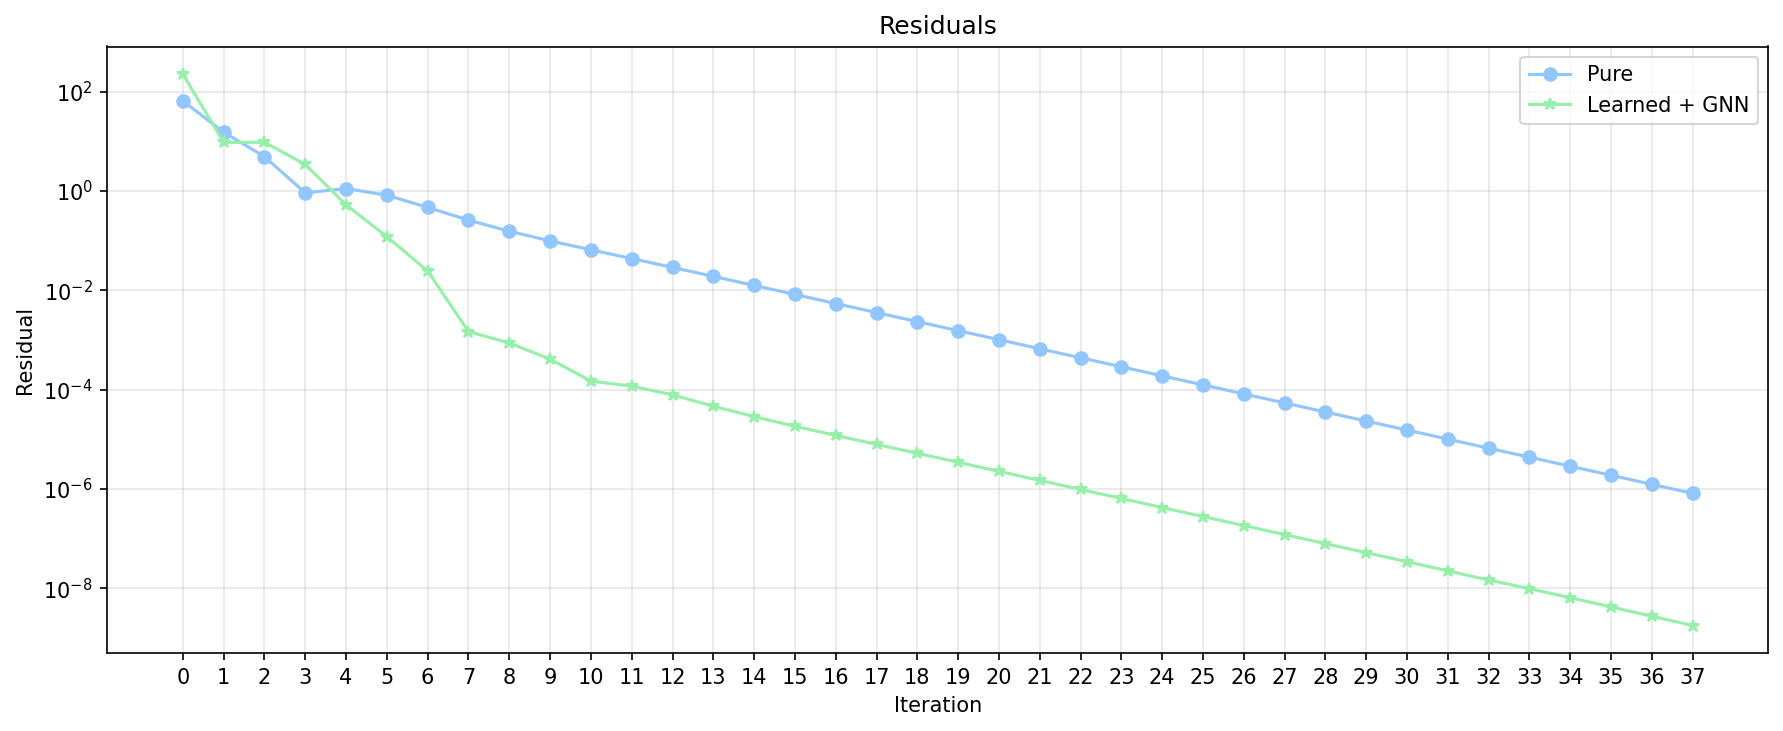
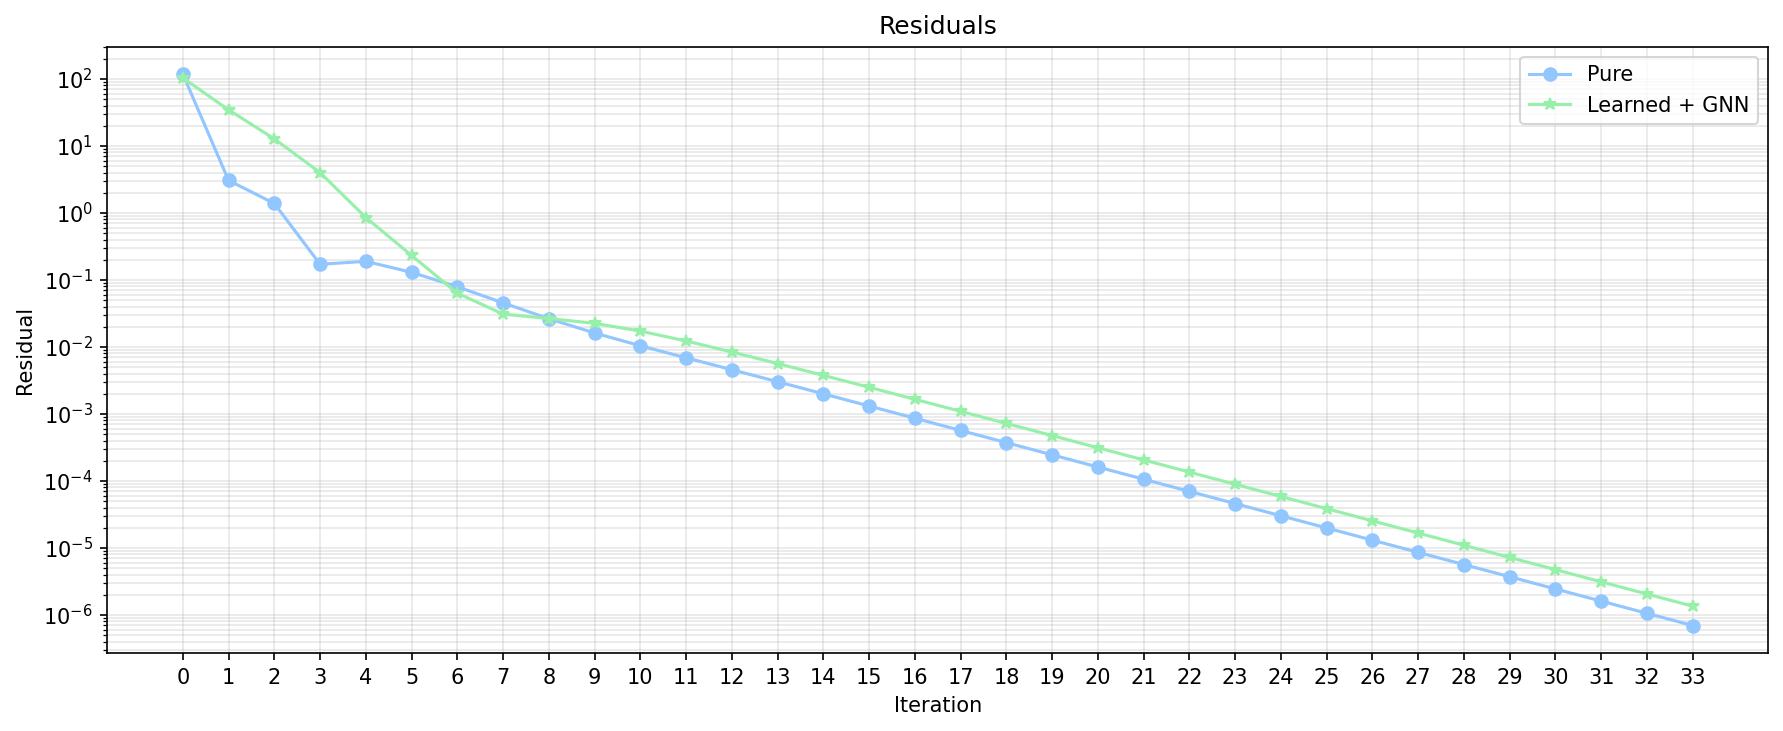
update_x_cvxpy top
understand well and better why learning does not improve, probably to be understood later also if it is scalable

diff --git a/GNN/prosumer.py b/GNN/prosumer.py
@@ -1,7 +1,6 @@
 import copy
 import torch
 import cvxpy as cp
-
 from cvxpylayers.torch import CvxpyLayer
 
 
@@ -382,33 +381,33 @@ class Prosumer:
                 max= self.k[m]
             )
         return self
-    
+
     # ------------------------------------------------------------------
     # ADMM x-update (differentiable, exact via cvxpylayers)
     # ------------------------------------------------------------------
- 
+    
     def _build_cvxpy_layer(self, rho_val: float):
         """
         Build a CvxpyLayer for the ADMM x-update QP.
         Called once and cached — the problem structure is fixed,
         only the parameter values change between calls.
- 
+
         The QP solves:
             min  J_n(D,G,q) + (rho/2) sum_m ||q[m] - target[m]||^2
             s.t. D_min <= D <= D_max
                  G_min <= G <= G_max
                  q[m] <= k[m]  for all m
                  D - G - G_res - sum(q) = 0
- 
+
         Parameters (differentiable):
             target : (k,) — z[m] - u[m] for each neighbor m
- 
+
         The solution x* is differentiable w.r.t. target via implicit
         differentiation of the KKT conditions (handled by cvxpylayers).
         """
         k = len(self.neighbors)
         dim = 2 + k
- 
+
         # Fixed scalar values
         D_min_val   = float(self.D_min.item())
         D_max_val   = float(self.D_max.item())
@@ -421,30 +420,30 @@ class Prosumer:
         D_star_val  = float(self.D_star.item())
         c_vals      = [float(self.c[m].item()) for m in self.neighbors]
         k_caps      = [float(self.k[m].item()) for m in self.neighbors]
- 
+
         # cvxpy variable and parameter
         x = cp.Variable(dim)
         target = cp.Parameter(k)  # z[m] - u[m], differentiable
- 
+
         D = x[0]
         G = x[1]
- 
+
         # Objective: J_n + ADMM penalty
         node_cost  = a_tilde_val * cp.square(D - D_star_val) + \
                      0.5 * a_val * cp.square(G) + b_val * G
         trade_cost = cp.sum([c_vals[i] * x[2 + i] for i in range(k)]) \
                      if k > 0 else 0
         J_n = node_cost + trade_cost
- 
+
         if k > 0:
             penalty = (rho_val / 2.0) * cp.sum(
                 [cp.square(x[2 + i] - target[i]) for i in range(k)]
             )
         else:
             penalty = 0
- 
+
         objective = cp.Minimize(J_n + penalty)
- 
+
         # Constraints
         constraints = []
         constraints += [D >= D_min_val, D <= D_max_val]
@@ -455,45 +454,48 @@ class Prosumer:
             constraints.append(D - G - G_res_val - cp.sum(x[2:]) == 0)
         else:
             constraints.append(D - G == G_res_val)
- 
+
         problem = cp.Problem(objective, constraints)
- 
+
         # Build CvxpyLayer: target is the differentiable parameter
         self._cvxpy_layer = CvxpyLayer(
             problem, parameters=[target], variables=[x]
         )
         self._cvxpy_layer_rho = rho_val
- 
+
     def admm_x_update_diff(self, rho: float) -> "Prosumer":
         """
         ADMM x-update: exact QP solution, differentiable via cvxpylayers.
- 
+
         Solves the same QP as admm_x_update but gradients flow through
         the solution w.r.t. the ADMM target (z[m] - u[m]).
- 
+
         The CvxpyLayer is built once and cached. If rho changes,
         the layer is rebuilt.
         """
         k = len(self.neighbors)
- 
+
         # Build/rebuild layer if needed
         if not hasattr(self, '_cvxpy_layer') or self._cvxpy_layer_rho != rho:
             self._build_cvxpy_layer(rho)
- 
+
         # Construct the differentiable parameter: target[i] = z[m_i] - u[m_i]
         target_vals = torch.stack([
             self.z[m] - self.u[m] for m in self.neighbors
-        ]) if k > 0 else torch.zeros(0, device=self.device)
- 
+        ]).double() if k > 0 else torch.zeros(0, dtype=torch.float64, device=self.device)
+
         # Solve — output is differentiable w.r.t. target_vals
         sol, = self._cvxpy_layer(target_vals, solver_args={'solve_method': 'SCS'})
- 
+
+        # cvxpylayers returns float64, convert back to float32
+        sol = sol.float()
+
         # Unpack solution back into prosumer state
         self.D = sol[0]
         self.G = sol[1]
         for i, m in enumerate(self.neighbors):
             self.q[m] = sol[2 + i]
- 
+
         return self
 
     def admm_z_update(self):

diff --git a/GNN/train.py b/GNN/train.py
@@ -105,15 +105,42 @@ def meta_train(
                 sample_baseline = 0.0
                 for t in range(T):
                     if algorithm == "fb":
+                        net = learned_FB_step(net, model, t, gamma, training=True)
                         x_t  = net_b.flatten()
                         Tx_t = pure_FB_step(net_b, gamma).flatten()
                         sample_baseline += torch.sum((x_t - Tx_t) ** 2).item()
-                        net_b = pure_FB_step(net_b, gamma)
+                        #net_b = pure_FB_step(net_b, gamma)
                     else:  # admm
+                        """
+                        net_b = pure_ADMM_step(net_b, rho)
                         x_t  = net_b.flatten()
                         Tx_t = pure_ADMM_step(net_b, rho).flatten()
                         sample_baseline += torch.sum((x_t - Tx_t) ** 2).item()
+                        #net_b = pure_ADMM_step(net_b, rho)
+                        """
+                        # Save z before step for dual residual
+                        z_prev_b = {
+                            n: {m: net_b.prosumers[n].z[m].clone()
+                                for m in net_b.prosumers[n].neighbors}
+                            for n in range(net_b.N)
+                        }
+ 
+                        # Advance state
                         net_b = pure_ADMM_step(net_b, rho)
+ 
+                        # Primal residual: r = sum (q - z)^2
+                        r_b = sum(
+                            (p.q[m] - p.z[m]) ** 2
+                            for p in net_b.prosumers
+                            for m in p.neighbors
+                        )
+                        # Dual residual: s = rho^2 * sum (z^t - z^{t-1})^2
+                        s_b = rho ** 2 * sum(
+                            (net_b.prosumers[n].z[m] - z_prev_b[n][m]) ** 2
+                            for n in range(net_b.N)
+                            for m in net_b.prosumers[n].neighbors
+                        )
+                        sample_baseline += float(r_b + s_b)
  
                 baseline_total += sample_baseline
                 n_baseline += 1
@@ -157,7 +184,7 @@ def meta_train(
                         sample_loss = sample_loss + torch.sum((x_t - Tx_t) ** 2)
 
                     else:  # admm
-                        """
+                        
                         # Save z before the step for dual residual computation
                         z_prev = {
                             n: {m: net.prosumers[n].z[m].clone().detach()
@@ -195,7 +222,7 @@ def meta_train(
                         x_t  = net.flatten()
                         Tx_t = pure_ADMM_step(net, rho).flatten().detach()
                         sample_loss = sample_loss + torch.sum((x_t - Tx_t) ** 2)
-                        
+                        """
 
                 batch_loss = batch_loss + sample_loss
 

diff --git a/GNN/main.py b/GNN/main.py
@@ -62,15 +62,15 @@ def main(N_choice: int = 3, N_train: int = 3, load: bool = True,
     # ------------------------------------------------------------------
     # Hyperparameters
     # ------------------------------------------------------------------
-    num_samples = 100
+    num_samples = 50
     batch_size  = 1
-    T           = 15        # unrolling steps
-    epochs      = 150
-    lr          = 1e-3
+    T           = 30        # unrolling steps
+    epochs      = 20
+    lr          = 1e-4
     alpha       = 0.95      # kept for API compatibility
     d_h         = 12        # GNN hidden dimension
-    rho_gnn     = 0.3     # GNN summability decay (rho in GNNUpdate)
-    rho_admm    = 5     # ADMM penalty parameter
+    rho_gnn     = 0.5     # GNN summability decay (rho in GNNUpdate)
+    rho_admm    = 3     # ADMM penalty parameter
 
     # Build network for training (needed before model construction)
     net_train, gamma, max_iter, tol = init_fn[N_train](device=device)
@@ -254,15 +254,15 @@ if __name__ == "__main__":
     parser = argparse.ArgumentParser(description="L2Play — GNN accelerated FB/ADMM")
 
     parser.add_argument(
-        "--N", type=int, default=10, choices=[3, 10, 30],
+        "--N", type=int, default=3, choices=[3, 10, 30],
         help="Network size for inference (default: 3)"
     )
     parser.add_argument(
-        "--N_train", type=int, default=10, choices=[3, 10, 30],
+        "--N_train", type=int, default=3, choices=[3, 10, 30],
         help="Network size for training (default: 3)"
     )
     parser.add_argument(
-        "--load", action="store_true", default=True,
+        "--load", action="store_true", default=False,
         help="Load pre-trained model instead of training"
     )
     parser.add_argument(

diff --git a/GNN/inference.py b/GNN/inference.py
@@ -111,7 +111,7 @@ def run_comparison(
                 ).item()
 
             else:  # admm
-                
+                """
                 # ----------------------------------------------------------
                 # ADMM: pure step
                 # ----------------------------------------------------------
@@ -181,7 +181,7 @@ def run_comparison(
                     for m in net_learned_new.prosumers[n].neighbors
                 )
                 res_learned = float(r_learned + s_learned)
-                """
+                
 
             residuals_pure.append(res_pure)
             residuals_learned.append(res_learned)
